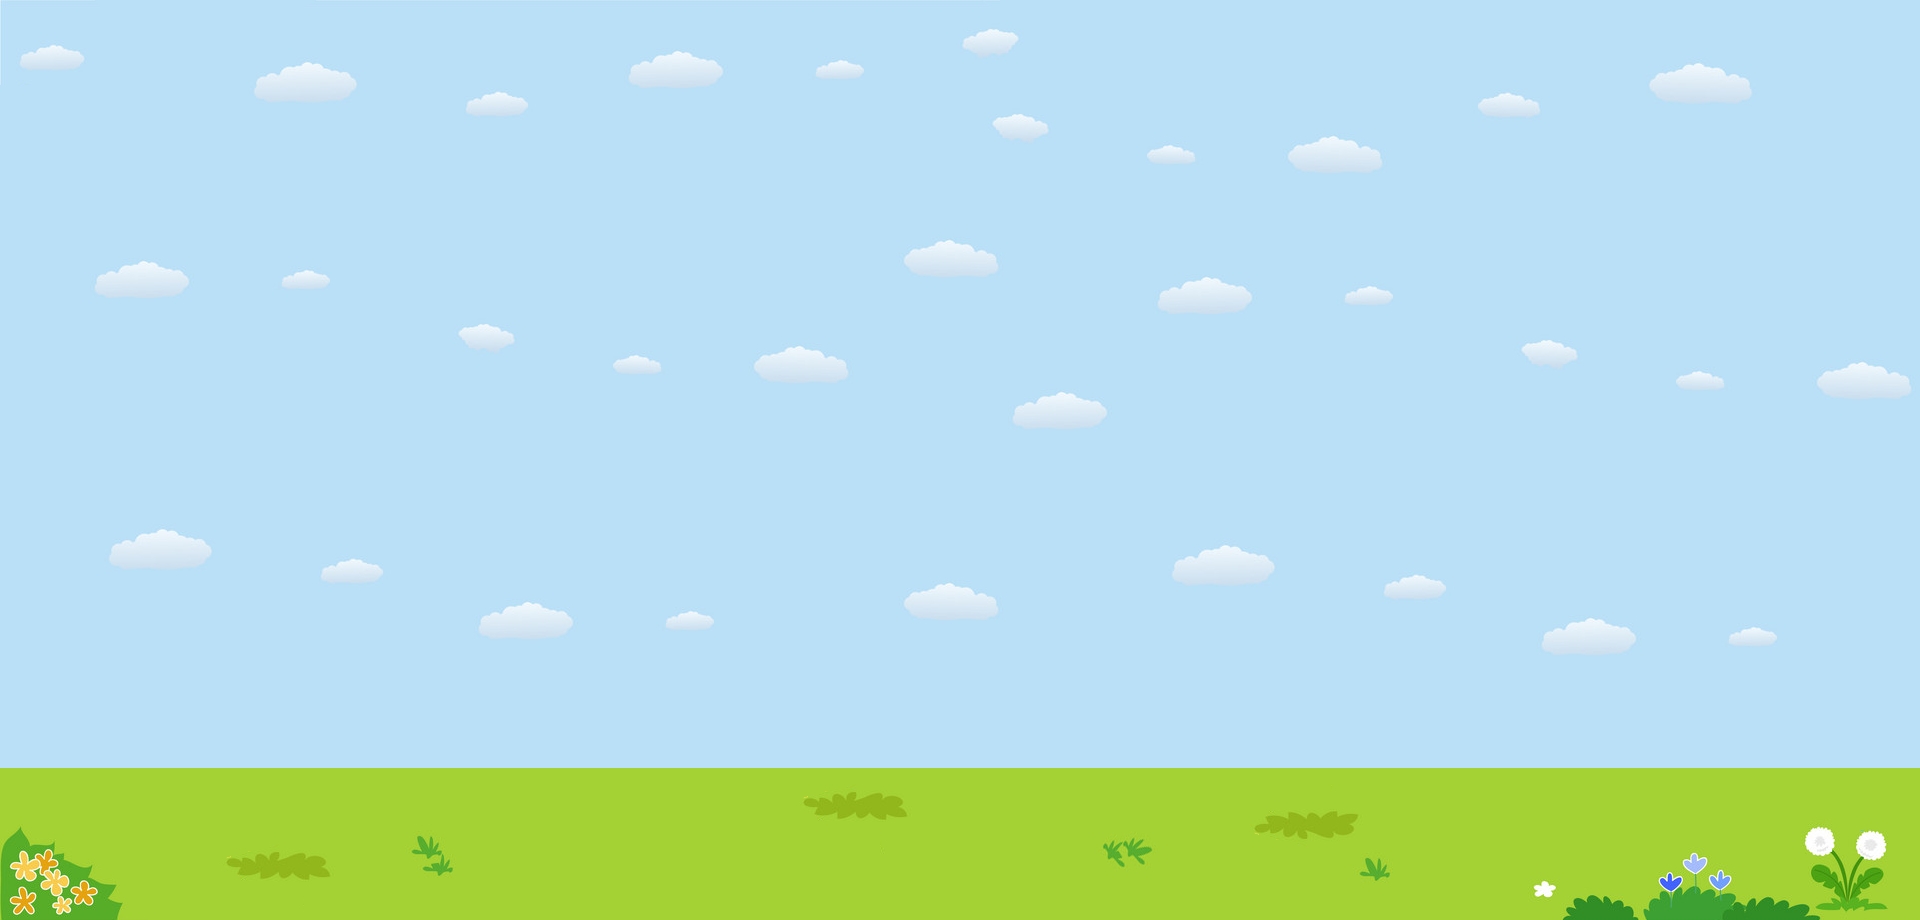
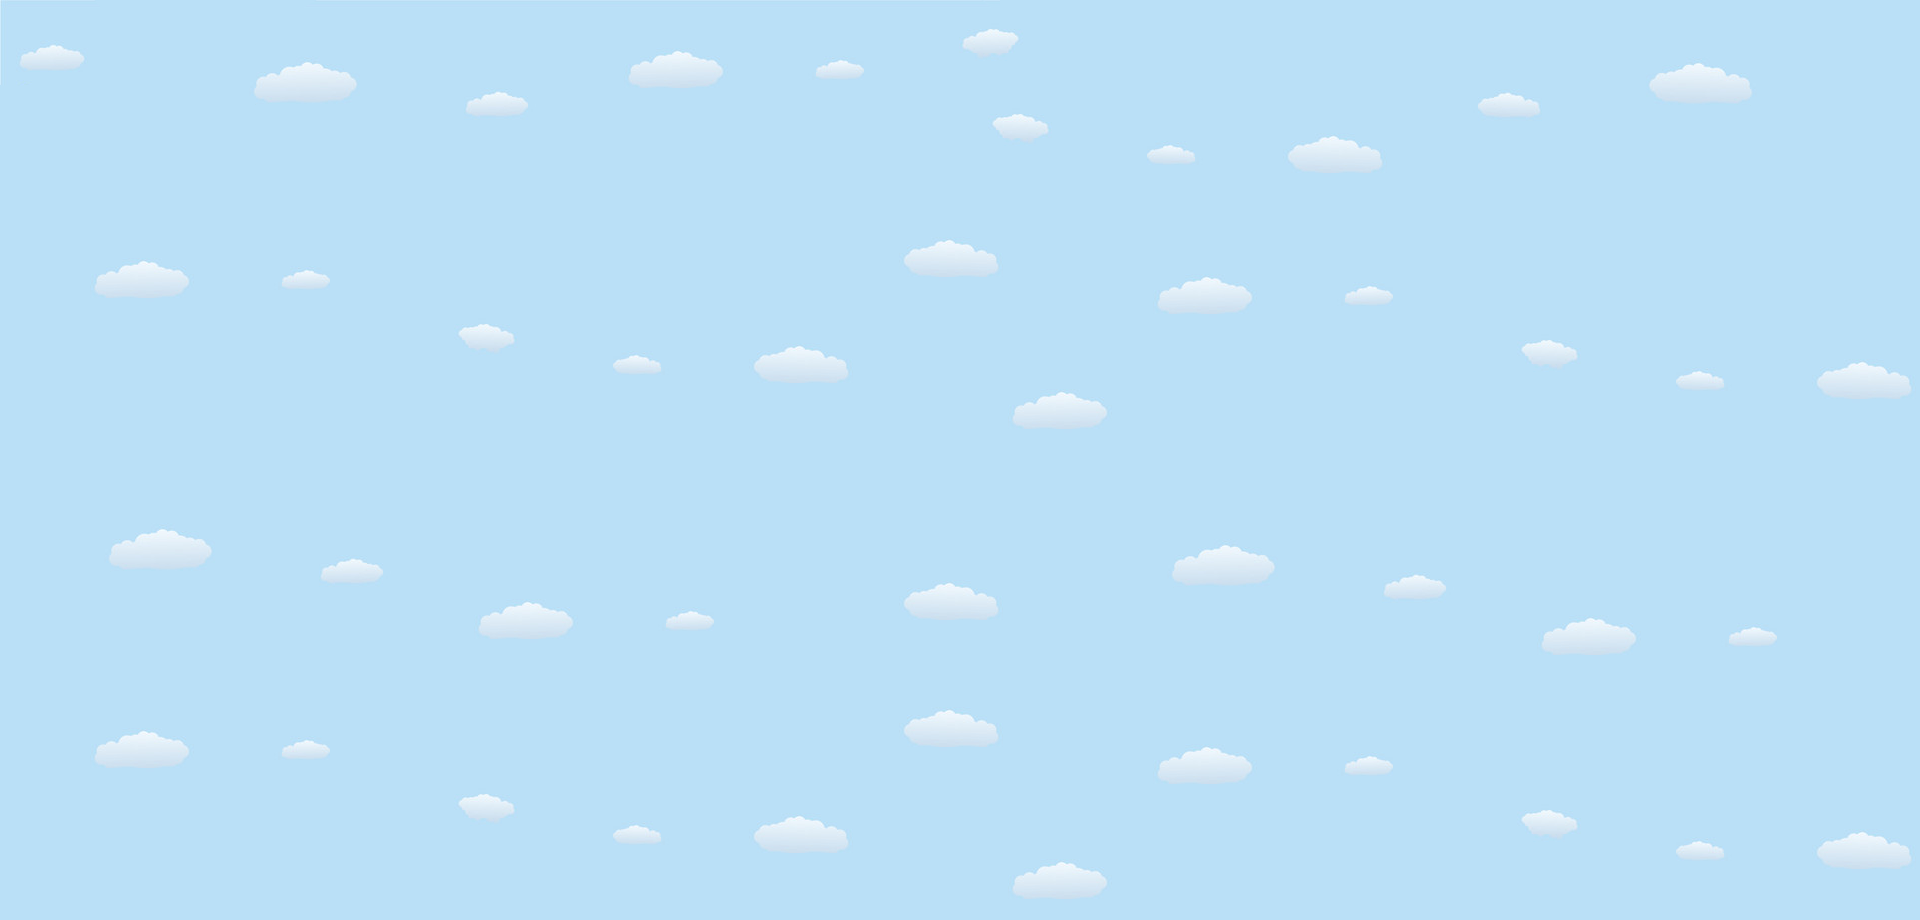
Add collision

Changed region(s): [[0.0, 0.7609, 1.0, 1.0]]

diff --git a/iteration3/game3/js/Baselevel.js b/iteration3/game3/js/Baselevel.js
@@ -15,6 +15,7 @@ var Baselevel = new Phaser.Class({
 
   loadAssets: function () {
     this.load.image('background', 'assets/common/background.png');
+    this.load.image('ground', 'assets/common/ground.png');
     this.load.image('recycle', 'assets/common/recycle_badge.png');
     this.load.image('bin', 'assets/common/bin.png');
     this.load.image('platform_long', 'assets/common/platform_long.png');
@@ -28,6 +29,7 @@ var Baselevel = new Phaser.Class({
 
   setUp: function () {
     background = this.add.image(0, 0, 'background').setOrigin(0);
+    ground = this.add.image(0, 770, 'ground').setOrigin(0);
     recycle = this.add.image(0, 0, 'recycle').setOrigin(0);
     this.createPlayer();
   },
@@ -37,6 +39,8 @@ var Baselevel = new Phaser.Class({
 
     player.setBounce(0.2);
     player.setCollideWorldBounds(true);
+    this.physics.add.collider(player, platforms);
+    this.physics.add.collider(player, ground);
 
     this.anims.create({
       key: 'left',

diff --git a/iteration3/game3/js/Level1.js b/iteration3/game3/js/Level1.js
@@ -30,6 +30,7 @@ var Level1 = new Phaser.Class({
     platforms.create(0, 200, 'platform_medium').setOrigin(0);
     platforms.create(900, 450, 'platform_short').setOrigin(0);
     platforms.create(550, 350, 'platform_short').setOrigin(0);
+    this.createPlayers();
   },
 
   levelUp: function() {
